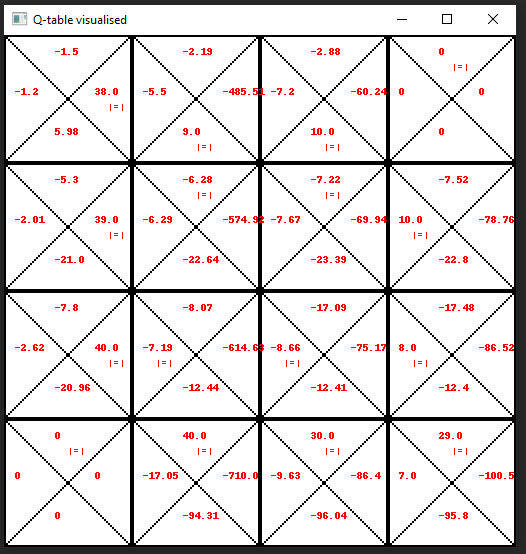
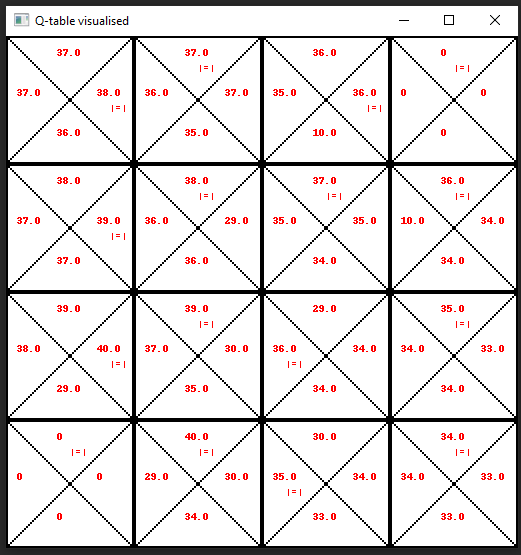
Fixed small bug in q learning and it works now

diff --git a/modelfree_prediction/code_for_implementation/q_learning.py b/modelfree_prediction/code_for_implementation/q_learning.py
@@ -46,7 +46,9 @@ def q_learning(environment, iterations=1000, discount_rate=0.9, alpha=0.1, explo
             state_prime, reward, _, info = environment.step(action)
 
             # Q(S,A) ← Q(S,A) + α (R + γ maxa Q(S',A) - Q(S,A))
-            environment.agent.policy.q_table[last_state['agent_location'][0]][last_state['agent_location'][1]][action] += alpha * (reward + discount_rate * environment.agent.policy.q_table[state_prime['agent_location'][0]][state_prime['agent_location'][1]][action] - environment.agent.policy.q_table[last_state['agent_location'][0]][last_state['agent_location'][1]][action])
+            # max a Q(S',A)
+            q_max_value = np.argmax(environment.agent.policy.q_table[state_prime['agent_location'][0]][state_prime['agent_location'][1]])
+            environment.agent.policy.q_table[last_state['agent_location'][0]][last_state['agent_location'][1]][action] += alpha * (reward + discount_rate * environment.agent.policy.q_table[state_prime['agent_location'][0]][state_prime['agent_location'][1]][q_max_value] - environment.agent.policy.q_table[last_state['agent_location'][0]][last_state['agent_location'][1]][action])
 
             # s ← S'
             state = state_prime

diff --git a/modelfree_prediction/code_for_implementation/simulator.py b/modelfree_prediction/code_for_implementation/simulator.py
@@ -169,8 +169,8 @@ if __name__ == "__main__":
             # Load optimal value matrix
             a3.load_value_matrix('policy_saves/best_paths_custom.csv')
             # print(a3.policy.value_matrix)
-            iterations = 10000
-            discount_rate = 1
+            iterations = 50000
+            discount_rate = 0.9
             alpha = 0.1
             epsilon = 0.7
             exploring_starts = False

diff --git a/modelfree_prediction/README_modelfree_prediction.md b/modelfree_prediction/README_modelfree_prediction.md
@@ -39,7 +39,7 @@ python modelfree_prediction/code_for_implementation/simulator.py 3
 ![Alt Text](https://github.com/RichardDev01/Adaptive-Systems-2021/blob/main/assets/outcome_qtable_sarsa_discount_1_text.PNG?raw=true)
 ![Alt Text](https://github.com/RichardDev01/Adaptive-Systems-2021/blob/main/assets/outcome_qtable_sarsa_discount_1.PNG?raw=true)
 
-## Outcome On Q leanring
+## Outcome Of Q leanring
 Use this from root folder to get the same results
 ```bash
 python modelfree_prediction/code_for_implementation/simulator.py 4
@@ -48,3 +48,5 @@ python modelfree_prediction/code_for_implementation/simulator.py 4
 ![Alt Text](https://github.com/RichardDev01/Adaptive-Systems-2021/blob/main/assets/outcome_qtable_ql_discount_1_text.PNG?raw=true)
 ![Alt Text](https://github.com/RichardDev01/Adaptive-Systems-2021/blob/main/assets/outcome_qtable_ql_discount_1.PNG?raw=true)
 
+![Alt Text](https://github.com/RichardDev01/Adaptive-Systems-2021/blob/main/assets/outcome_qtable_ql_discount_09_text.PNG?raw=true)
+![Alt Text](https://github.com/RichardDev01/Adaptive-Systems-2021/blob/main/assets/outcome_qtable_ql_discount_09.PNG?raw=true)
